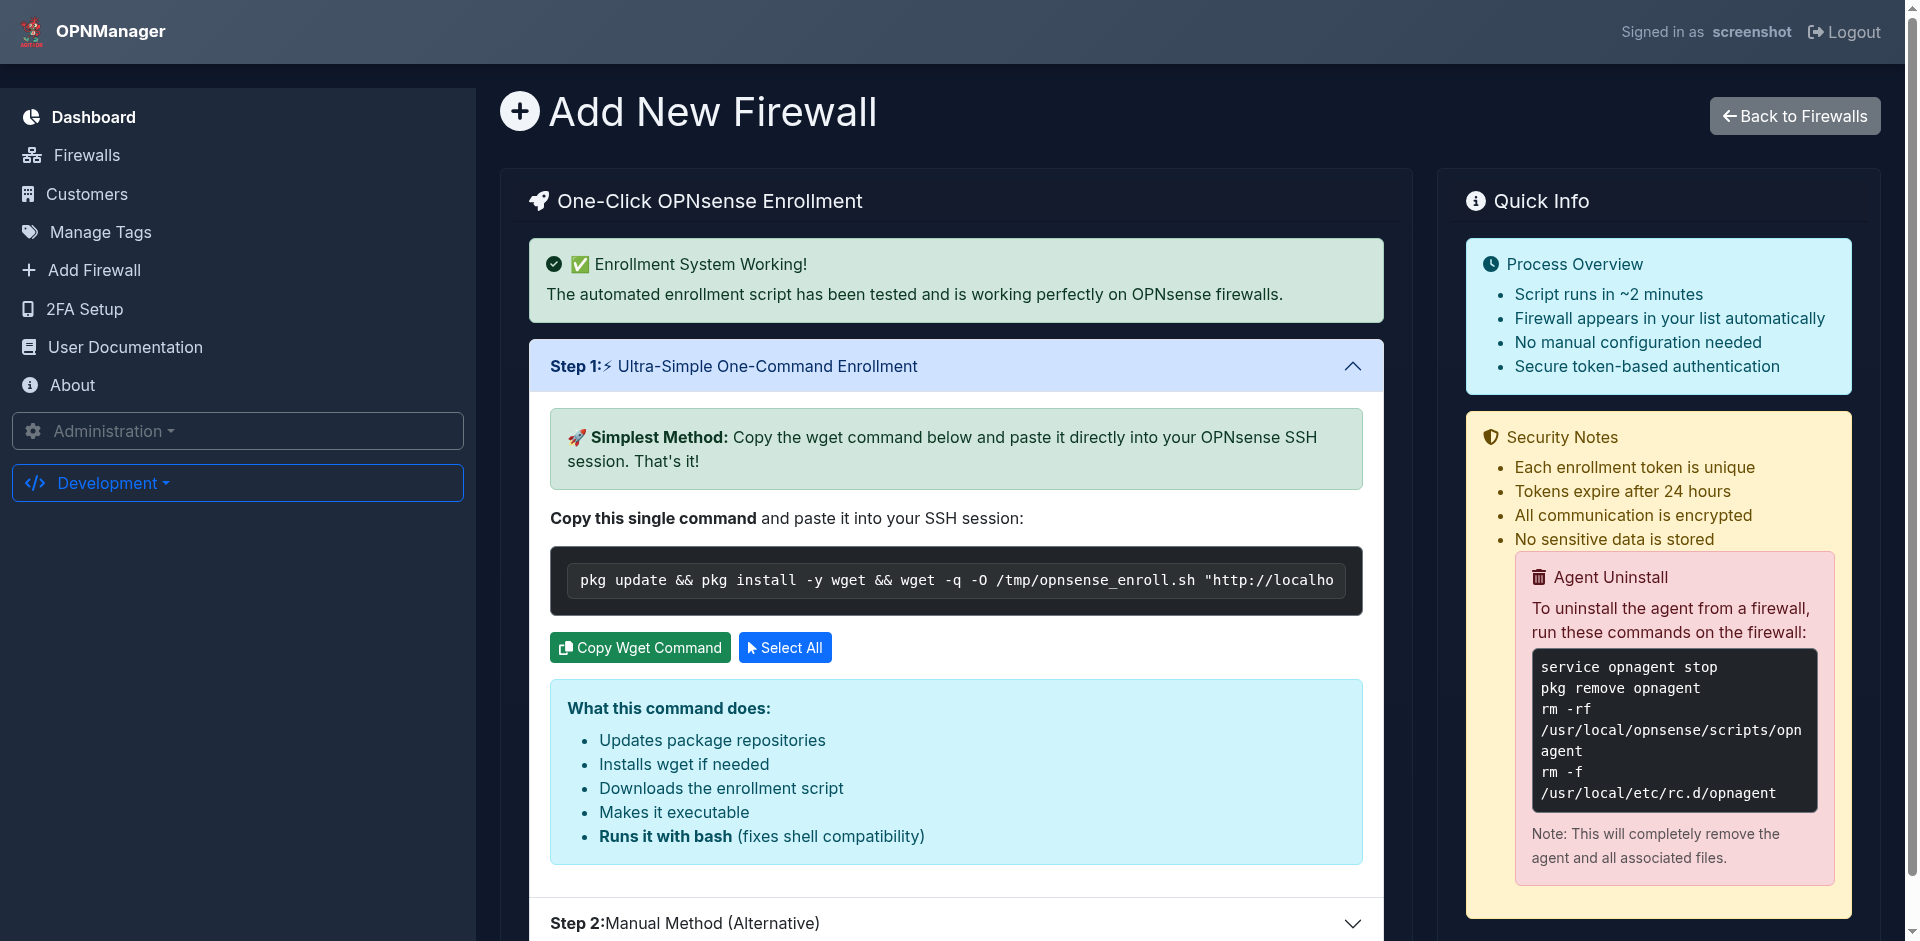
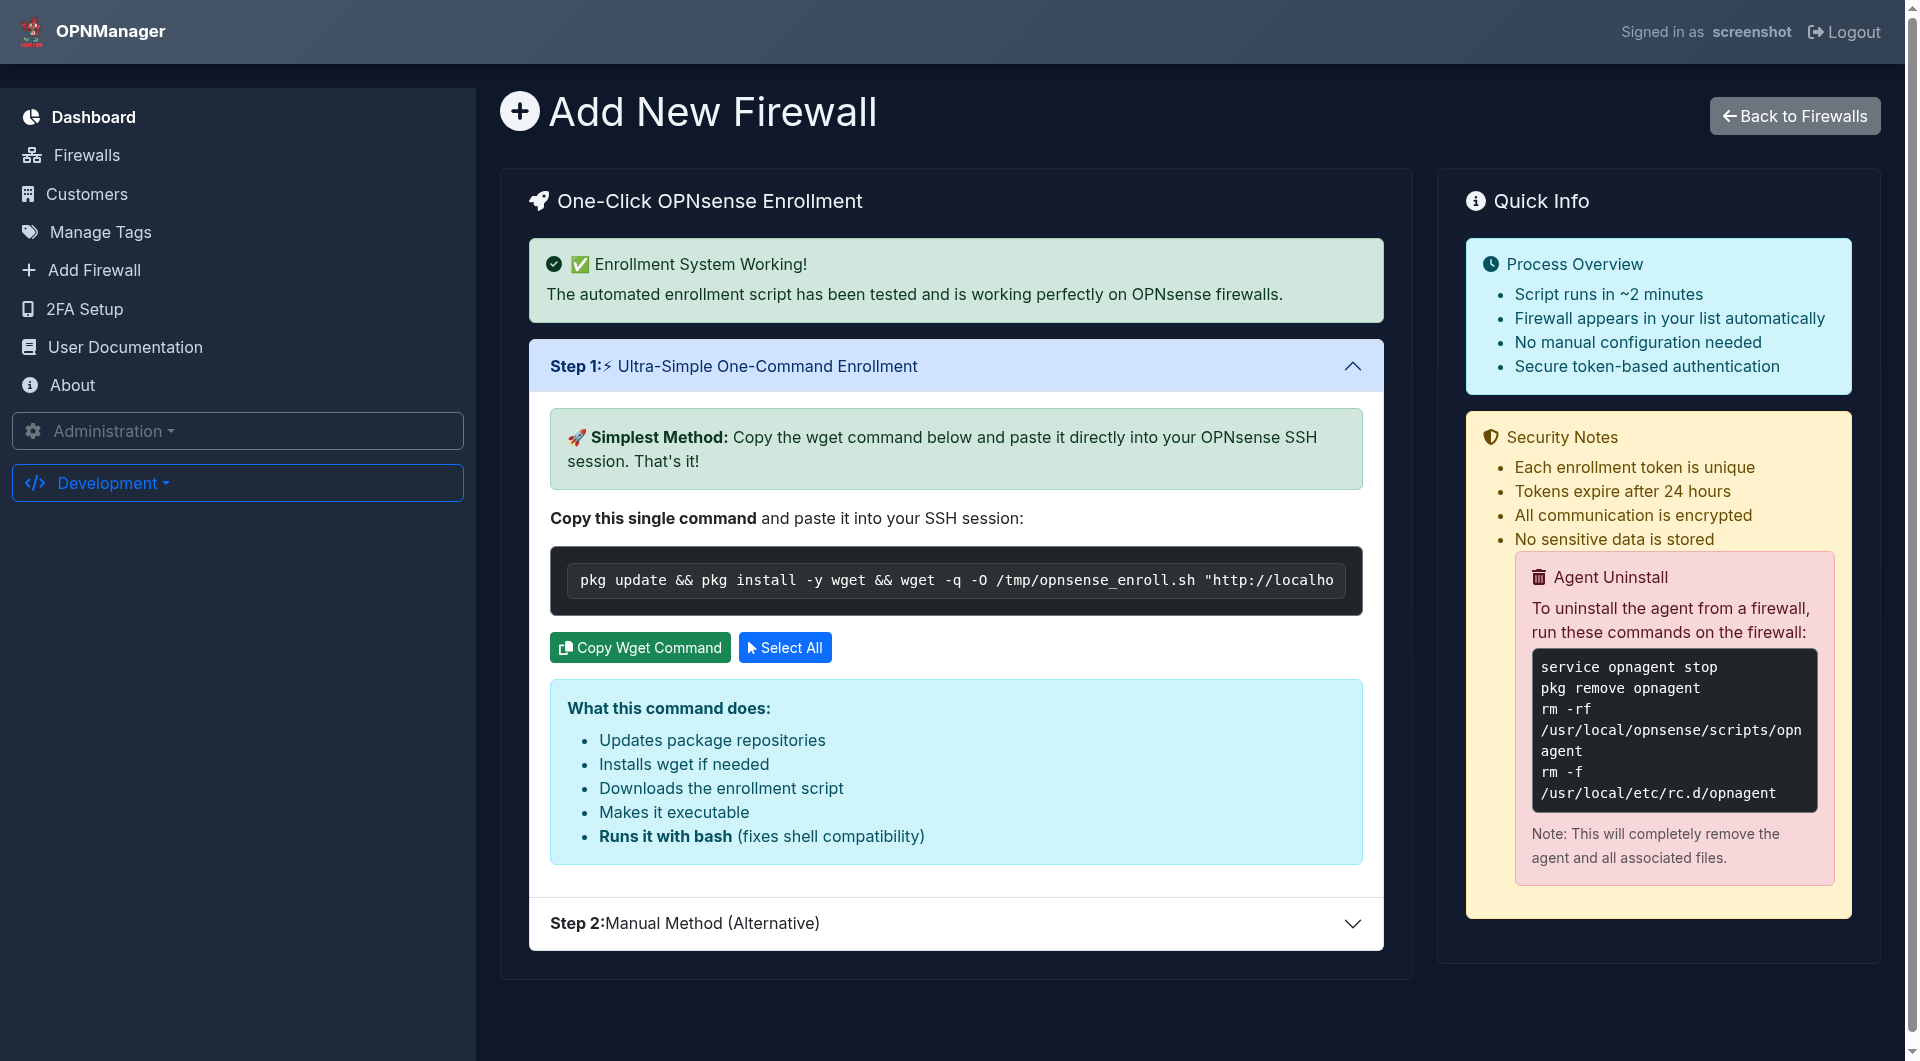
Update screenshots with comprehensive full-page captures
Screenshot Improvements:
- Replaced screenshots with comprehensive versions showing more content
- Updated settings screenshot to show all configuration options (not cut off)
- Updated about page screenshot with full system information
- Added 3 new screenshots: Firewall Edit, Add User, About page
- Increased screenshot script window height from 1080 to 2400 for full-page captures

README Enhancements:
- Added descriptive captions under each screenshot explaining functionality
- Separated Settings and User Management into individual sections
- Added detailed bullet points for Settings page features
- Better organization showing: firewall management, editing, customer management,
  tags, logs, system configuration, user administration, and system info

Screenshots now show complete functionality including:
- Full settings page with all options visible
- Complete firewall management workflow (list, details, edit, add)
- User administration features
- System information and GitHub integration
- All configuration options and features

diff --git a/README.md b/README.md
@@ -59,31 +59,53 @@ A comprehensive web-based management platform for centralized monitoring, config
 
 ### Login Page
 ![Login Page](screenshots/01-login.png)
+*Secure authentication with optional 2FA support*
 
 ### Dashboard
 ![Dashboard](screenshots/02-dashboard.png)
+*Real-time overview with firewall statistics, status charts, and network map*
 
 ### Firewall Management
 | Firewall List | Firewall Details |
 |---------------|------------------|
 | ![Firewall List](screenshots/03-firewall-list.png) | ![Firewall Details](screenshots/03-firewall-details.png) |
+*Complete firewall inventory with filtering and search (left) • Detailed firewall information with network config and status (right)*
+
+### Firewall Editing
+![Edit Firewall](screenshots/10-firewall-edit.png)
+*Edit firewall configuration including hostname, IP addresses, customer assignment, and tags*
 
 ### Add New Firewall
 ![Add Firewall](screenshots/04-add-firewall.png)
+*Simple firewall enrollment with automatic agent installation script generation*
 
 ### Customer Management
 ![Customers](screenshots/05-customers.png)
+*Multi-tenant customer organization with firewall counts and contact information*
 
 ### Tag Management
 ![Manage Tags](screenshots/06-manage-tags.png)
+*Color-coded tags for organizing firewalls by location, type, or custom categories*
 
 ### Activity Logs
 ![Logs](screenshots/07-logs.png)
+*Complete audit trail of all actions, commands, and system events*
 
-### Settings & Users
-| Settings | User Management |
-|----------|-----------------|
-| ![Settings](screenshots/08-settings.png) | ![Users](screenshots/09-users.png) |
+### System Settings
+![Settings](screenshots/08-settings.png)
+*Complete system configuration: branding, theme customization, GitHub integration, security scanner, and update management*
+
+### User Management
+![Users](screenshots/09-users.png)
+*User access control with role-based permissions*
+
+### User Administration
+![Add User](screenshots/11-add-user.png)
+*Create new users with role-based permissions (admin/viewer)*
+
+### About & System Information
+![About](screenshots/12-about.png)
+*Version information, system statistics, and GitHub integration status*
 
 ---
 
